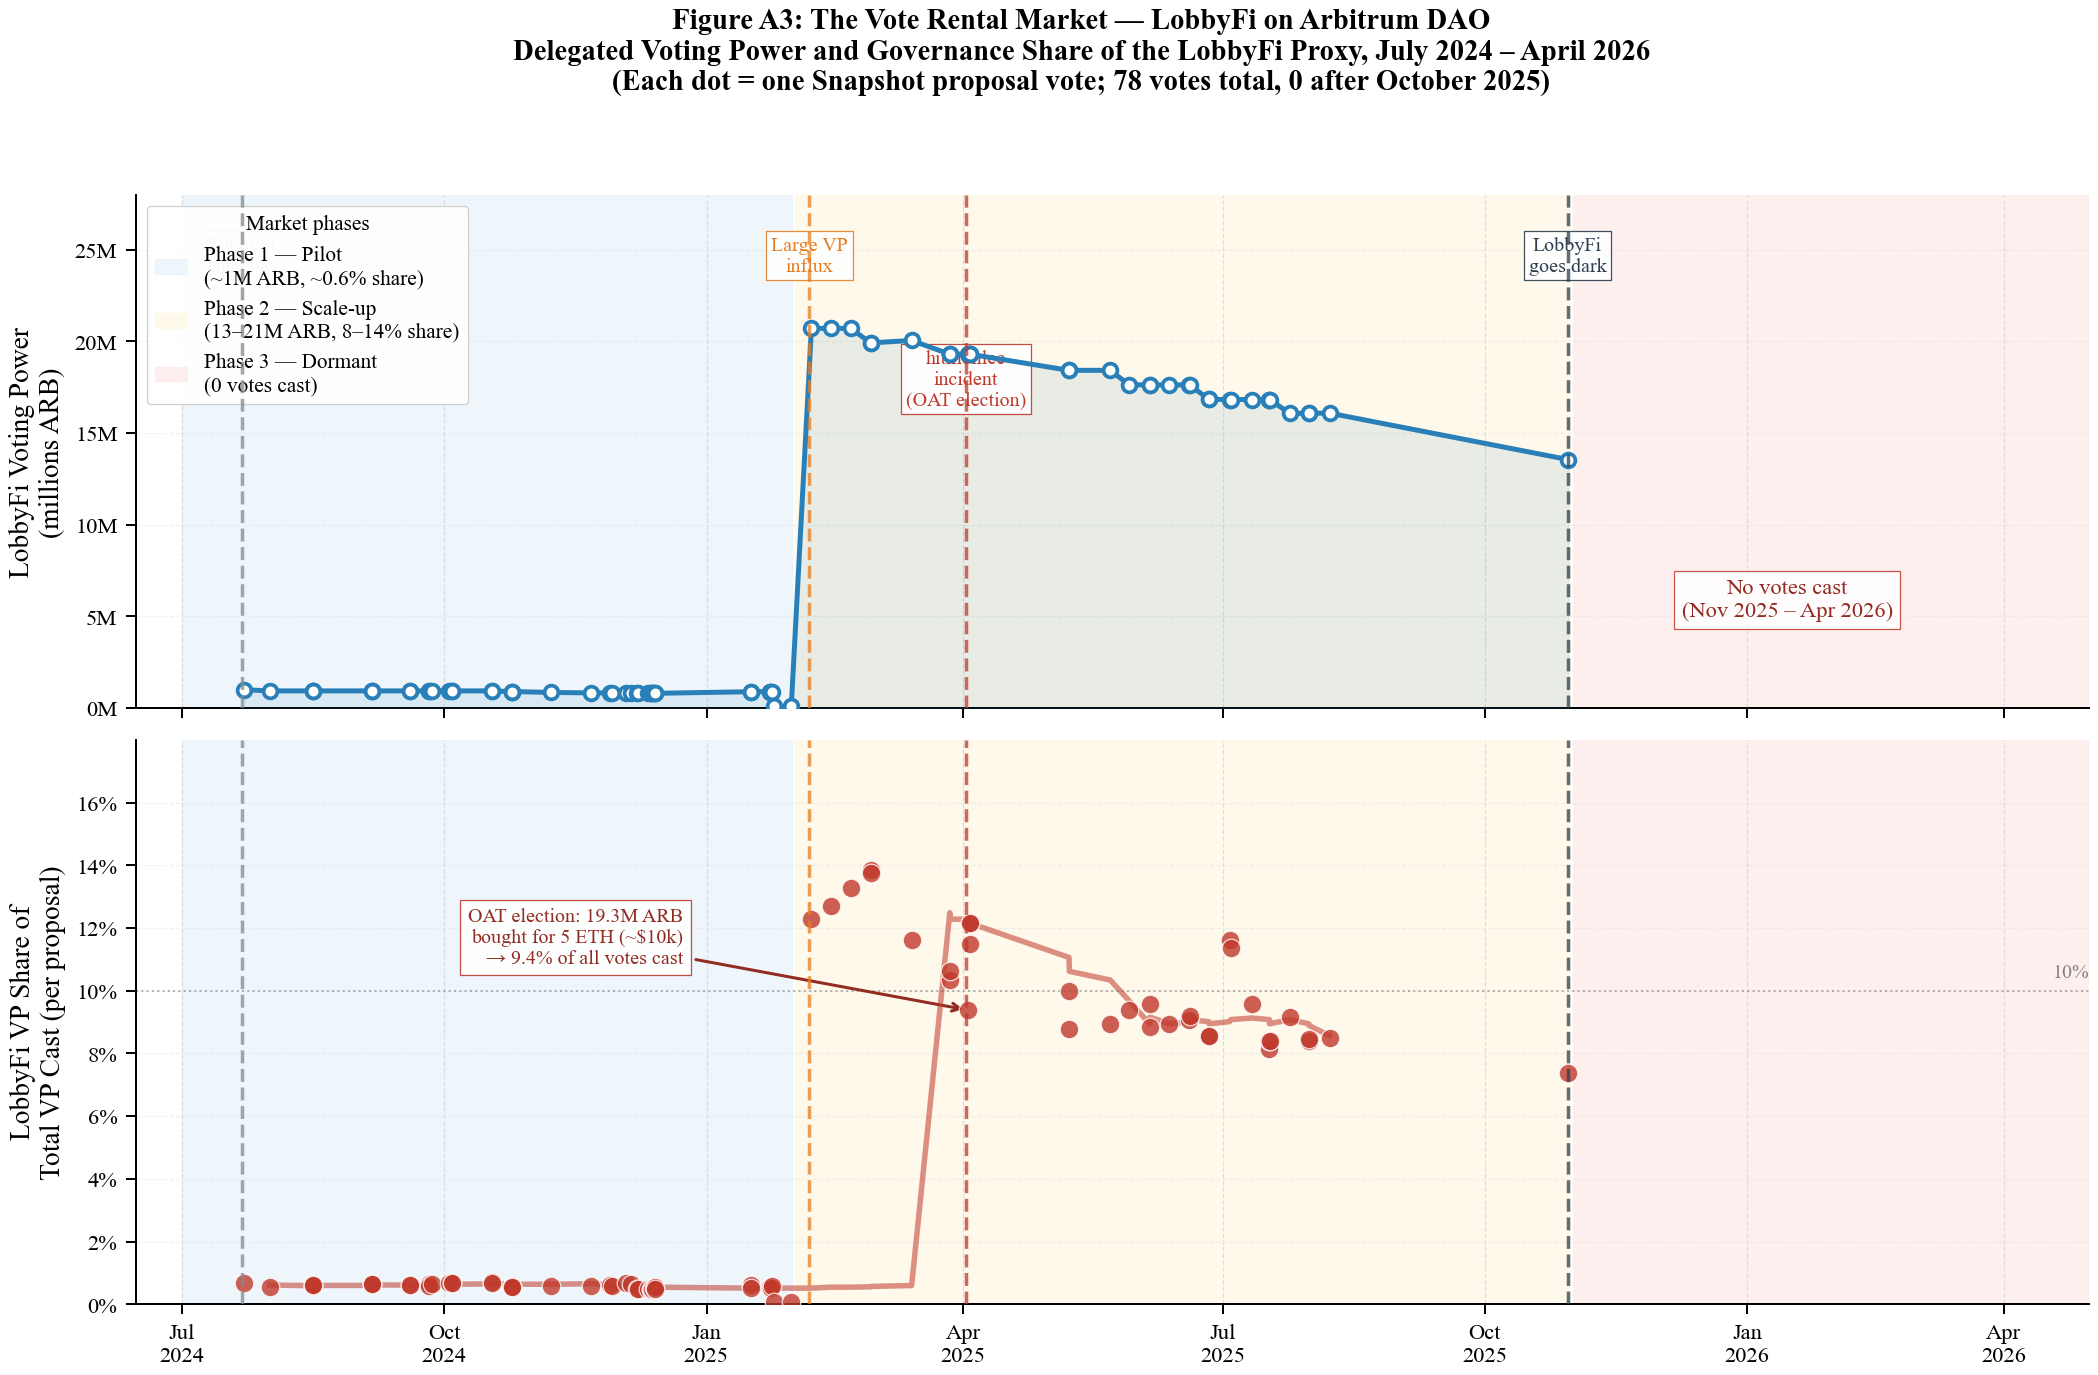
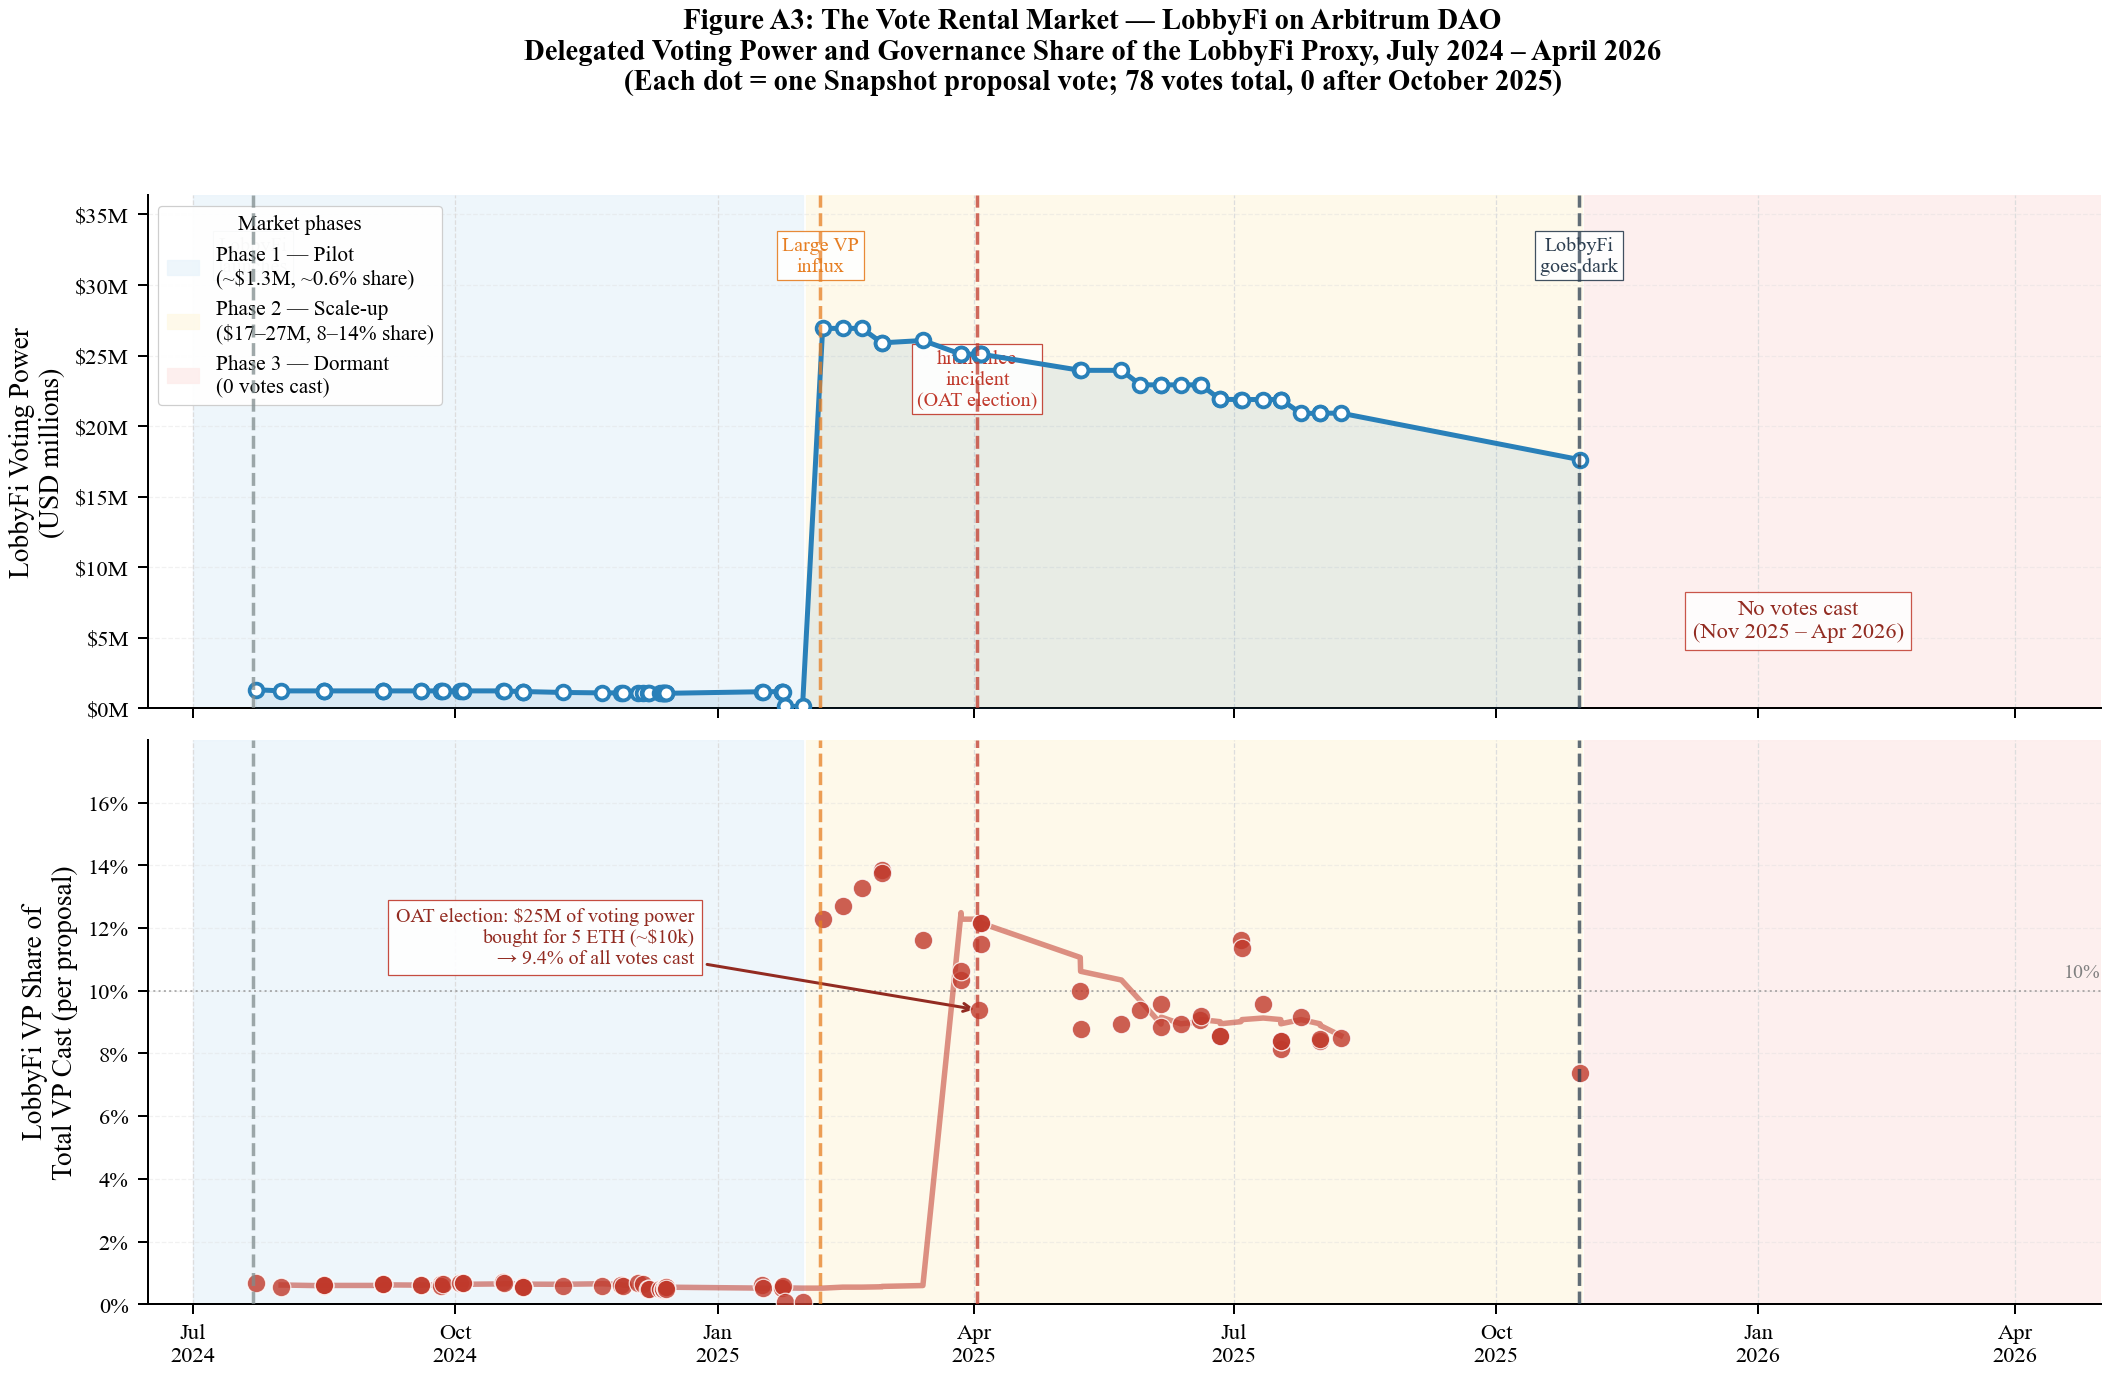
USD: convert fig06/fig11 to $1.30 rate; center affiliation; add Daniel Yue ack; 2026 valuation footnote
- fig06 (LobbyFi VP) and fig11 (delegate VP): voting power converted to USD at the
  fixed TGE rate via freeze.to_value; axes + annotations relabeled USD. Ratios/
  regressions unchanged (rescale-invariant; fig11 r=-0.439 as before).
- Title: \and -> \quad so the Georgia Tech affiliation centers under both authors.
- Acknowledgements: added Daniel Yue (GT) for continuous insights (Max Spero/Pangram
  credits already present).
- Footnote: added the Aug 2026 valuation (ARB ~$0.07 -> treasury ~$0.2B).

diff --git a/scripts/fig06_lobbyfi.py b/scripts/fig06_lobbyfi.py
@@ -72,9 +72,9 @@ EVENTS = [
 # ── Phase shading ─────────────────────────────────────────────────────────────
 PHASES = [
     {"start": "2024-07-01", "end": "2025-01-31",
-     "color": "#EBF5FB", "label": "Phase 1 — Pilot\n(~1M ARB, ~0.6% share)"},
+     "color": "#EBF5FB", "label": "Phase 1 — Pilot\n(~$1.3M, ~0.6% share)"},
     {"start": "2025-02-01", "end": "2025-10-31",
-     "color": "#FEF9E7", "label": "Phase 2 — Scale-up\n(13–21M ARB, 8–14% share)"},
+     "color": "#FEF9E7", "label": "Phase 2 — Scale-up\n($17–27M, 8–14% share)"},
     {"start": "2025-11-01", "end": "2026-05-01",
      "color": "#FDEDEC", "label": "Phase 3 — Dormant\n(0 votes cast)"},
 ]
@@ -114,14 +114,14 @@ for v in raw_votes:
         "voted_at":    created,
         "prop_date":   pd.to_datetime(p["created"], unit="s"),
         "title":       p["title"],
-        "lobbyfi_vp":  v["vp"] / 1e6,          # millions ARB
+        "lobbyfi_vp":  freeze.to_value(v["vp"]) / 1e6,   # millions USD (at fixed TGE rate)
         "total_vp":    total_vp / 1e6,
         "share":       share,
     })
 
 df = pd.DataFrame(records).sort_values("voted_at").reset_index(drop=True)
 print(f"\nData range: {df['voted_at'].min().date()} → {df['voted_at'].max().date()}")
-print(f"VP range:   {df['lobbyfi_vp'].min():.2f}M → {df['lobbyfi_vp'].max():.2f}M ARB")
+print(f"VP range:   {df['lobbyfi_vp'].min():.2f}M → {df['lobbyfi_vp'].max():.2f}M USD")
 print(f"Share range:{df['share'].min():.1f}% → {df['share'].max():.1f}%")
 print(f"\nPhase breakdown:")
 print(f"  Phase 1 (Jul 2024 – Jan 2025): {len(df[df['voted_at'] < '2025-02-01'])} proposals")
@@ -163,9 +163,9 @@ ax_vp.annotate("No votes cast\n(Nov 2025 – Apr 2026)",
                fontsize=9, color="#922B21", ha="center",
                bbox=dict(fc="white", ec="#C0392B", pad=3, alpha=0.85))
 
-ax_vp.set_ylabel("LobbyFi Voting Power\n(millions ARB)", fontsize=11)
+ax_vp.set_ylabel("LobbyFi Voting Power\n(USD millions)", fontsize=11)
 ax_vp.set_ylim(0, df["lobbyfi_vp"].max() * 1.35)
-ax_vp.yaxis.set_major_formatter(mticker.FuncFormatter(lambda v, _: f"{v:.0f}M"))
+ax_vp.yaxis.set_major_formatter(mticker.FuncFormatter(lambda v, _: f"${v:.0f}M"))
 ax_vp.grid(axis="y", linestyle="--", linewidth=0.5, alpha=0.4)
 
 # ── Bottom panel: VP share per proposal ──────────────────────────────────────
@@ -195,7 +195,7 @@ ax_share.grid(axis="y", linestyle="--", linewidth=0.5, alpha=0.4)
 # Annotate the hitmonlee incident specifically
 hitmonlee_row = df[df["title"].str.contains("Oversight and Transparency", na=False)].iloc[0]
 ax_share.annotate(
-    f"OAT election: 19.3M ARB\nbought for 5 ETH (~$10k)\n→ {hitmonlee_row['share']:.1f}% of all votes cast",
+    f"OAT election: $25M of voting power\nbought for 5 ETH (~$10k)\n→ {hitmonlee_row['share']:.1f}% of all votes cast",
     xy=(hitmonlee_row["voted_at"], hitmonlee_row["share"]),
     xytext=(hitmonlee_row["voted_at"] - pd.Timedelta(days=100),
             hitmonlee_row["share"] + 1.5),

diff --git a/main_flat.tex b/main_flat.tex
@@ -73,8 +73,7 @@
 \title{\textbf{The Effect of AI Writing on Governance: Evidence from a \$3.5 Billion DAO}}
 
 \author{
-  Victor Huang$^{*}$ \and Joseph Hall$^{*}$
-  \\[0.5em]
+  Victor Huang$^{*}$ \quad Joseph Hall$^{*}$ \\[0.5em]
   \small $^{*}$Georgia Institute of Technology
 }
 
@@ -363,7 +362,7 @@ and advisors, subject to a four-year vesting schedule with a one-year cliff;
 (v) 27.70\% to the Arbitrum DAO treasury, available for governance allocation.
 At launch, the ARB token traded at \$1.30, implying a fully diluted
 market capitalization of \$13 billion and a DAO treasury of
-\$3.5 billion.\footnote{We convert all ARB-denominated quantities to U.S.\ dollars at this single token-generation reference rate (\$1.30/ARB, March 2023) throughout the paper, and report the treasury as \$3.5 billion accordingly. ARB's market price varied several-fold over the study period, so the same holdings would carry materially different dollar values at other valuation dates, including at present; we fix one date purely for comparability. The convention is descriptive only and affects no result---every ratio (such as the delegate voting-power gaps) and every regression in the paper is invariant to the ARB/USD rate.}
+\$3.5 billion.\footnote{We convert all ARB-denominated quantities to U.S.\ dollars at this single token-generation reference rate (\$1.30/ARB, March 2023) throughout the paper, and report the treasury as \$3.5 billion accordingly. ARB's market price has since varied by more than an order of magnitude: at the price prevailing in August 2026 ($\approx$\$0.07/ARB) the same 2.77-billion-ARB treasury would be worth roughly \$0.2 billion. The dollar figures therefore depend heavily on the valuation date; we fix one purely for comparability. The convention is descriptive only and affects no result---every ratio (such as the delegate voting-power gaps) and every regression in the paper is invariant to the ARB/USD rate.}
 
 The vesting cliff in March 2024 unlocked 1.1 billion previously locked team and
 investor tokens simultaneously. We control for this event in our empirical specifications.
@@ -2322,7 +2321,7 @@ a model of optimal DAO governance that is beyond the scope of this paper.
 \clearpage
 \section*{Acknowledgements}
 
-We thank Max Spero for generously providing access to Pangram AI detection API credits used in this analysis. All errors are our own.
+We thank Max Spero for generously providing access to Pangram AI-detection API credits used in this analysis, and Daniel Yue (Georgia Institute of Technology) for continuous insights throughout the project. All errors are our own.
 
 \bibliographystyle{apalike}
 \bibliography{references}

diff --git a/scripts/fig11_delegates.py b/scripts/fig11_delegates.py
@@ -28,6 +28,7 @@ from scipy import stats as spstats
 import sys
 sys.path.insert(0, os.path.dirname(os.path.abspath(__file__)))
 from aer_style import apply_aer_style, despine, COLORS, C_HUMAN, C_AI, savefig as aer_savefig
+import freeze
 apply_aer_style()
 
 HERE             = os.path.dirname(os.path.abspath(__file__))
@@ -136,7 +137,7 @@ for prop_id, voter_list in votes_raw.items():
     for v in voter_list:
         uname = wallet_to_username.get(v["voter"].lower())
         if uname:
-            delegate_vp.setdefault(uname, {})[prop_id] = v["vp"]
+            delegate_vp.setdefault(uname, {})[prop_id] = freeze.to_value(v["vp"])
 
 rows = []
 for uname, vpdata in delegate_vp.items():
@@ -272,7 +273,7 @@ ax_scatter.text(0.03, 0.96,
     bbox=dict(fc="white", ec="#BDC3C7", pad=4, alpha=0.93))
 
 ax_scatter.set_xlabel("Avg Pangram fraction_ai  (0 = fully human, 1 = fully AI)", fontsize=10)
-ax_scatter.set_ylabel(r"$\log_{10}$(avg voting power)", fontsize=10)
+ax_scatter.set_ylabel(r"$\log_{10}$(avg voting power, USD)", fontsize=10)
 ax_scatter.set_title(
     "Panel A: AI Posting Intensity vs. Delegated Voting Power\n"
     "Bubble size = forum post count  |  Individual vs. protocol delegates separated",
@@ -290,7 +291,7 @@ for uname, color, ls in HIGHLIGHT:
     ax_ts.semilogy(sub["date"], sub["vp"], color=color, linewidth=1.8,
                    linestyle=ls, alpha=0.9, label=f"{uname}{label_ai}")
 
-ax_ts.set_ylabel("Voting power (log scale)", fontsize=10)
+ax_ts.set_ylabel("Voting power, USD (log scale)", fontsize=10)
 ax_ts.set_xlabel("Proposal date", fontsize=10)
 ax_ts.set_title(
     "Panel B: Voting power trajectory — selected delegates",
